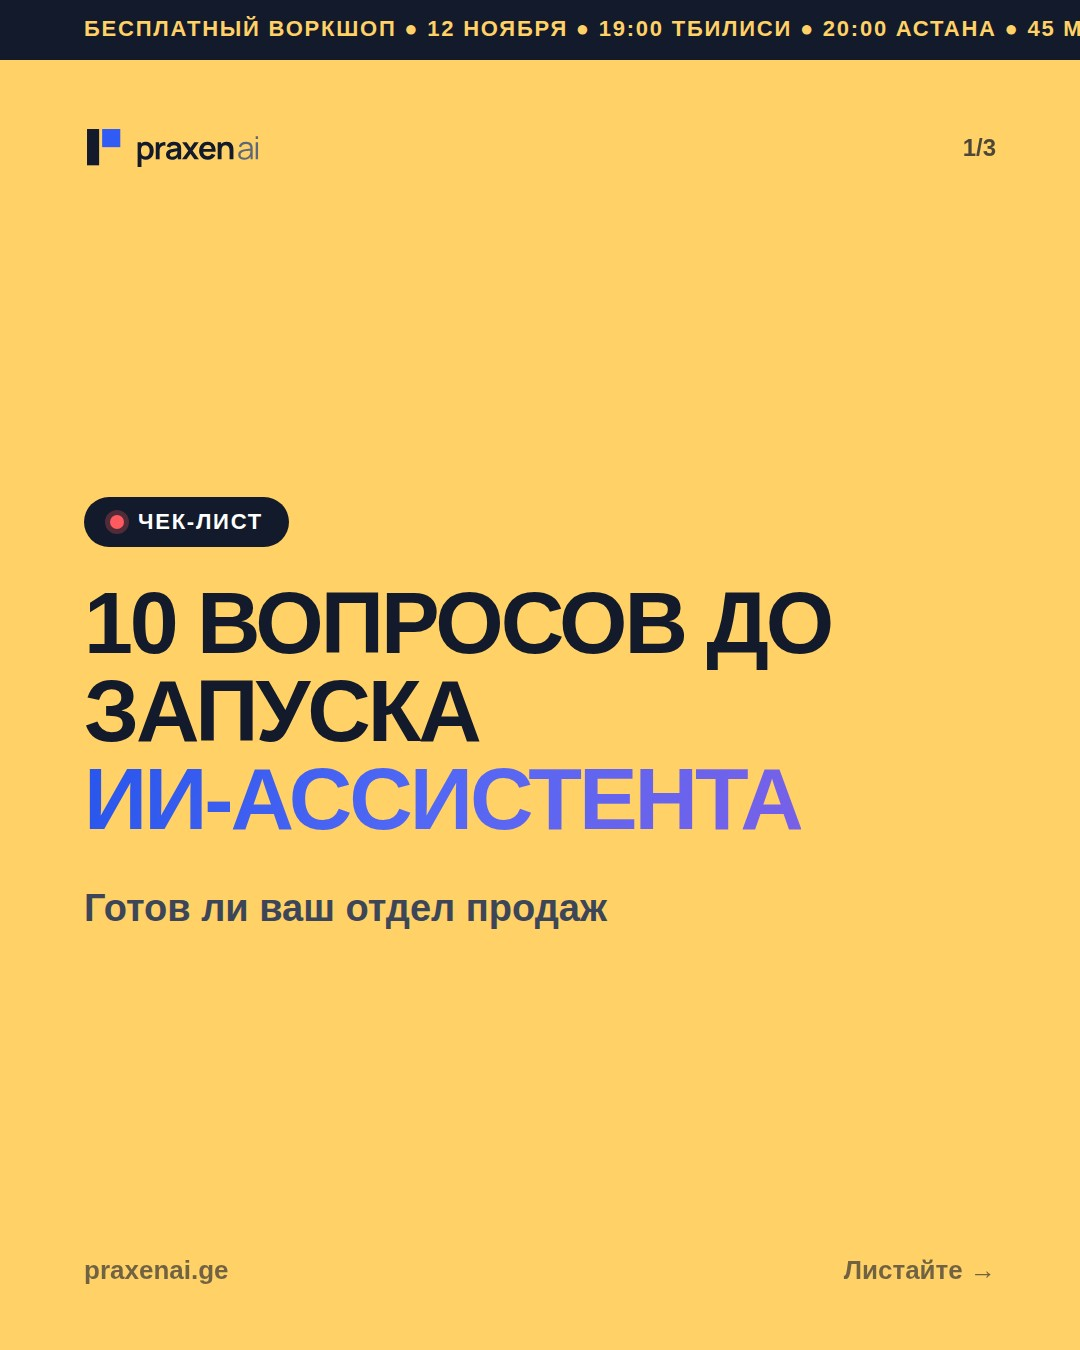
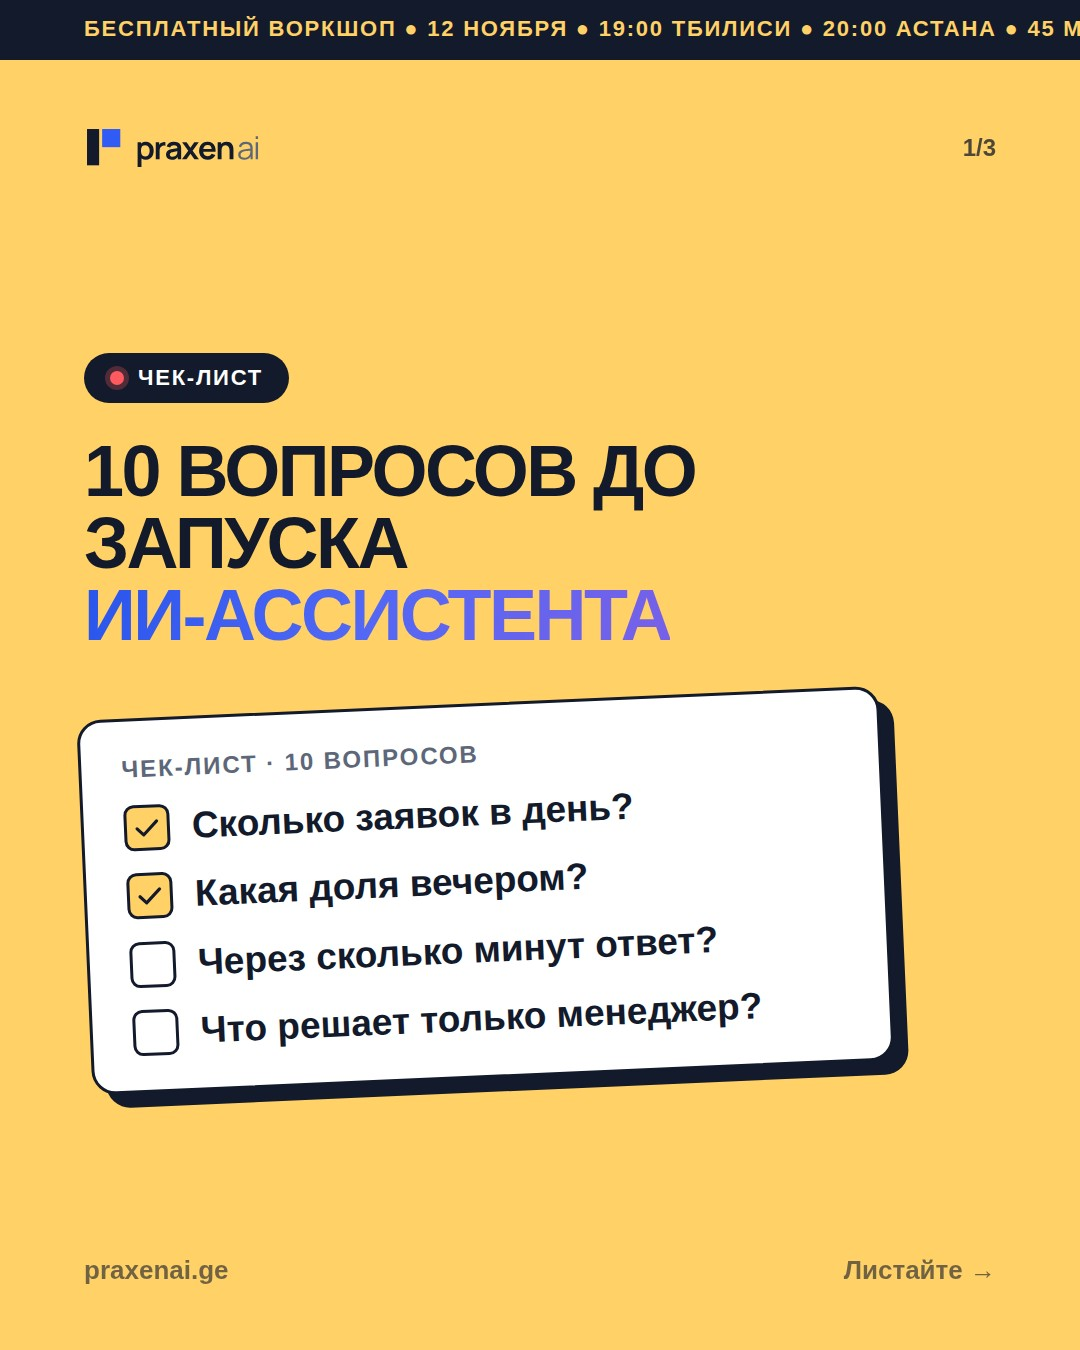
Social: eye-catching workshop covers (chat, clock, checklist, flow, versus, questions, calendar), profile kit for every network (Facebook and LinkedIn covers, Instagram highlights, stories, Telegram pin) and profile texts
Claude-Session: https://claude.ai/code/session_01KL6o371qpbTr1MgjKJCrM5

Changed region(s): [[0.0611, 0.2489, 0.8556, 0.84]]

diff --git a/docs/SOCIAL-PROFILES.md b/docs/SOCIAL-PROFILES.md
@@ -1,0 +1,74 @@
+# Оформление соцсетей Praxen AI (praxenai.ge)
+
+**Дата:** 25 октября 2026. Оформление на период воркшопа (до 12 ноября) в стиле страницы воркшопа: белый, жёлтая лента, синий градиент, тёмный. После 12 ноября обложки меняем на общие (`brand/facebook-cover-1640x624.png`, `brand/linkedin-cover-1128x191.png`), описания — убрать строку про воркшоп.
+
+Картинки: `brand/social-2026-11/`, собирает `node scripts/social/profile-kit.mjs`. Аватар везде один: `brand/praxen-avatar-dark-1080.png` (знак в центре, круглая обрезка его не режет). Длины текстов проверены по лимитам каждой сети.
+
+Ссылки в профилях с метками, чтобы записи из профиля было видно в Метрике:
+`https://praxenai.ge/ru/webinar?utm_source=<сеть>&utm_medium=social&utm_campaign=workshop_nov12&utm_content=profile`, где `<сеть>` — instagram, facebook, threads, telegram, linkedin.
+
+---
+
+## Facebook (страница)
+
+| Что | Файл или текст |
+|---|---|
+| Аватар | `praxen-avatar-dark-1080.png` |
+| Обложка | `social-2026-11/facebook-cover-1640x624.png` — текст вверху по центру: на телефоне края обрезаются, снизу ложится аватар |
+| Информация (до 101 знака) | ИИ-ассистенты для продаж: ответы клиентам за секунды и заявки сразу в CRM. Пилот 2–4 недели |
+| Кнопка действия | «Зарегистрироваться» → ссылка с `utm_source=facebook` |
+| Закреплённый пост | Анонс воркшопа (`w01-announce`), после публикации: «…» → «Закрепить вверху страницы» |
+
+## Instagram
+
+| Что | Файл или текст |
+|---|---|
+| Аватар | `praxen-avatar-dark-1080.png` |
+| Имя (поиск идёт по нему) | Praxen AI · ИИ для продаж |
+| Описание (до 150) | ИИ-ассистенты для продаж: отвечают клиентам в WhatsApp и Telegram за секунды и сами заполняют CRM<br>🎓 12.11 бесплатный воркшоп ↓ |
+| Ссылка | ссылка с `utm_source=instagram` |
+| Закреплённые посты (3) | Анонс воркшопа · «23:40 и 09:30» · Чек-лист «10 вопросов» |
+| Актуальное (обложки 1080×1920) | Воркшоп — `instagram-hl-workshop` · Как работаем — `hl-how` · Решения — `hl-solutions` · Цены — `hl-prices` · Вопросы — `hl-faq` · Контакты — `hl-contacts` |
+
+Что положить в «Актуальное»: **Воркшоп** — сторис из этого набора и карточки постов воркшопа; **Как работаем** — аудит → пилот → запуск; **Решения** — сценарии по отраслям; **Цены** — тарифы с главной сайта; **Вопросы** — карточки из поста «Частые вопросы»; **Контакты** — WhatsApp +995 557 125 497, сайт.
+
+## Threads
+
+Профиль Threads берёт аватар и имя из Instagram.
+
+| Что | Текст |
+|---|---|
+| Описание (до 150) | Евгений Будников, Praxen AI. Пишу про ИИ в продажах: как отвечать клиентам сразу и не терять заявки. 12.11 бесплатный воркшоп |
+| Ссылка | ссылка с `utm_source=threads` |
+| Закреплённый пост | Короткий анонс из `w01-announce/captions.md`, раздел threads |
+
+В Threads лучше работает живой голос: короткие мысли от первого лица и ответы в чужих ветках про продажи и CRM. Посты из плана — основа, между ними можно отвечать на вопросы в комментариях.
+
+## Telegram-канал
+
+| Что | Файл или текст |
+|---|---|
+| Аватар | `praxen-avatar-dark-1080.png` |
+| Описание (до 255) | Praxen AI: как внедрить ИИ в продажи и обслуживание без лишней теории. Ассистенты в WhatsApp и Telegram, заявки в CRM, разборы и чек-листы.<br><br>12 ноября — бесплатный онлайн-воркшоп «ИИ в отделе продаж»: praxenai.ge/ru/webinar |
+| Закреплённый пост | Картинка `social-2026-11/telegram-pinned-1280x720.png` + текст анонса из `w01-announce/captions.md`, раздел telegram |
+
+## LinkedIn
+
+| Что | Файл или текст |
+|---|---|
+| Страница компании: обложка | `social-2026-11/linkedin-company-cover-1128x191.png` (слева ложится логотип, текст справа) |
+| Страница компании: слоган (до 120) | ИИ-ассистенты для продаж и обслуживания: ответы клиентам за секунды, заявки сразу в CRM |
+| Личный профиль: баннер | `social-2026-11/linkedin-profile-banner-1584x396.png` (слева внизу ложится фото) |
+| Личный профиль: заголовок (до 220) | Основатель Praxen AI · Внедряю ИИ в продажи: ассистенты в WhatsApp и Telegram, которые отвечают клиентам сразу и сами заполняют CRM · 12 ноября — бесплатный воркшоп «ИИ в отделе продаж» |
+| Раздел «Избранное» | ссылка на воркшоп с `utm_source=linkedin` |
+
+## Сторис (Instagram, Facebook, Telegram)
+
+Файлы 1080×1920, всё важное вне верхних 250 и нижних 340 пикселей (там интерфейс Instagram). На каждую сторис добавить стикер-ссылку на воркшоп с `utm_source=stories`.
+
+| Файл | Когда |
+|---|---|
+| `story-new-post-1080x1920.png` | В дни постов: «Новый пост» → ведёт в ленту |
+| `story-checklist-1080x1920.png` | 30.10, вместе с постом про чек-лист |
+| `story-today-1080x1920.png` | 12.11 в 12:00 |
+| `story-30min-1080x1920.png` | 12.11 в 18:30 |

diff --git a/docs/SOCIAL-PLAN-2026-11.md b/docs/SOCIAL-PLAN-2026-11.md
@@ -73,6 +73,7 @@
 
 ## Где что лежит
 
+- Оформление профилей (обложки, описания, «Актуальное», сторис, закрепы): `docs/SOCIAL-PROFILES.md`, картинки — `brand/social-2026-11/`.
 - Воркшоп: тексты — `content/social/workshop-2026-11.json`, карточки и подписи по каналам — `content/social/out/workshop-2026-11/<пост>/`, календарь с инструкцией по отложенной публикации — `content/social/out/workshop-2026-11/PLAN.md`.
 - Услуги: `content/social/2026-10.json`, `content/social/out/2026-10/<пост>/`.
 
